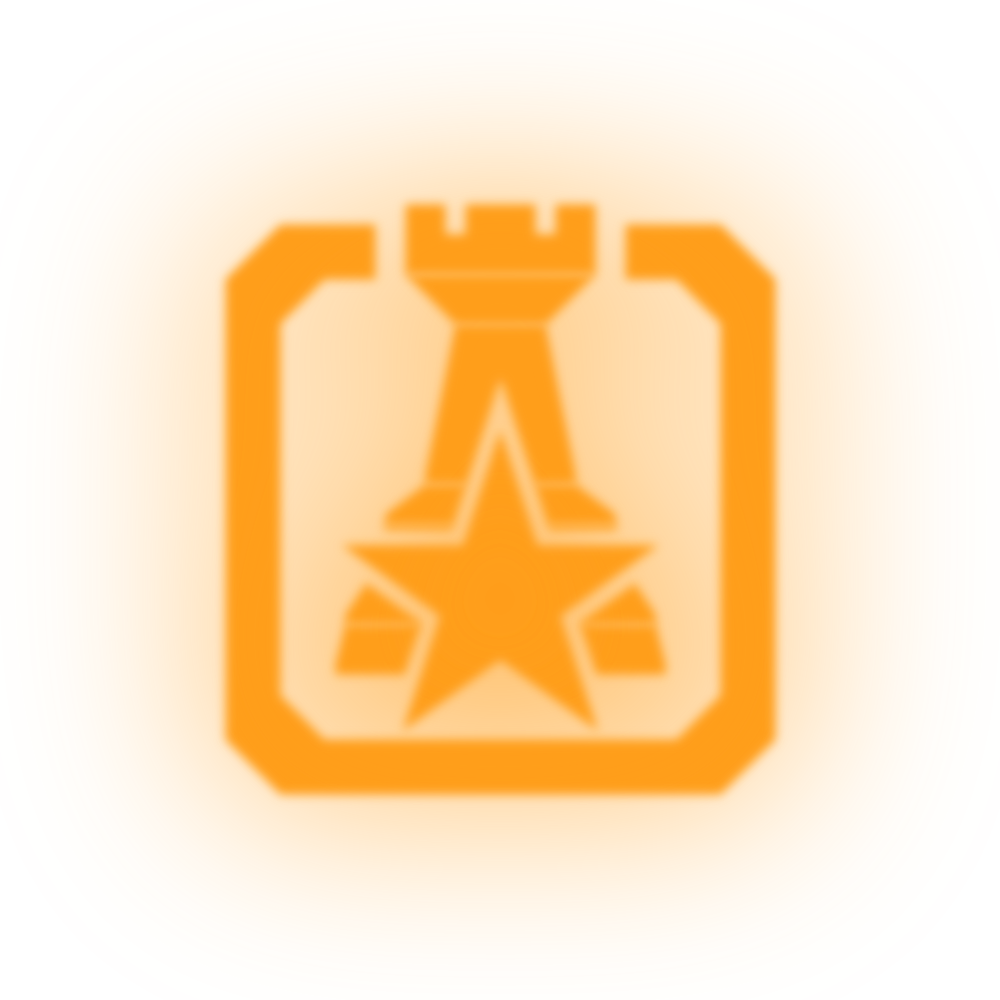
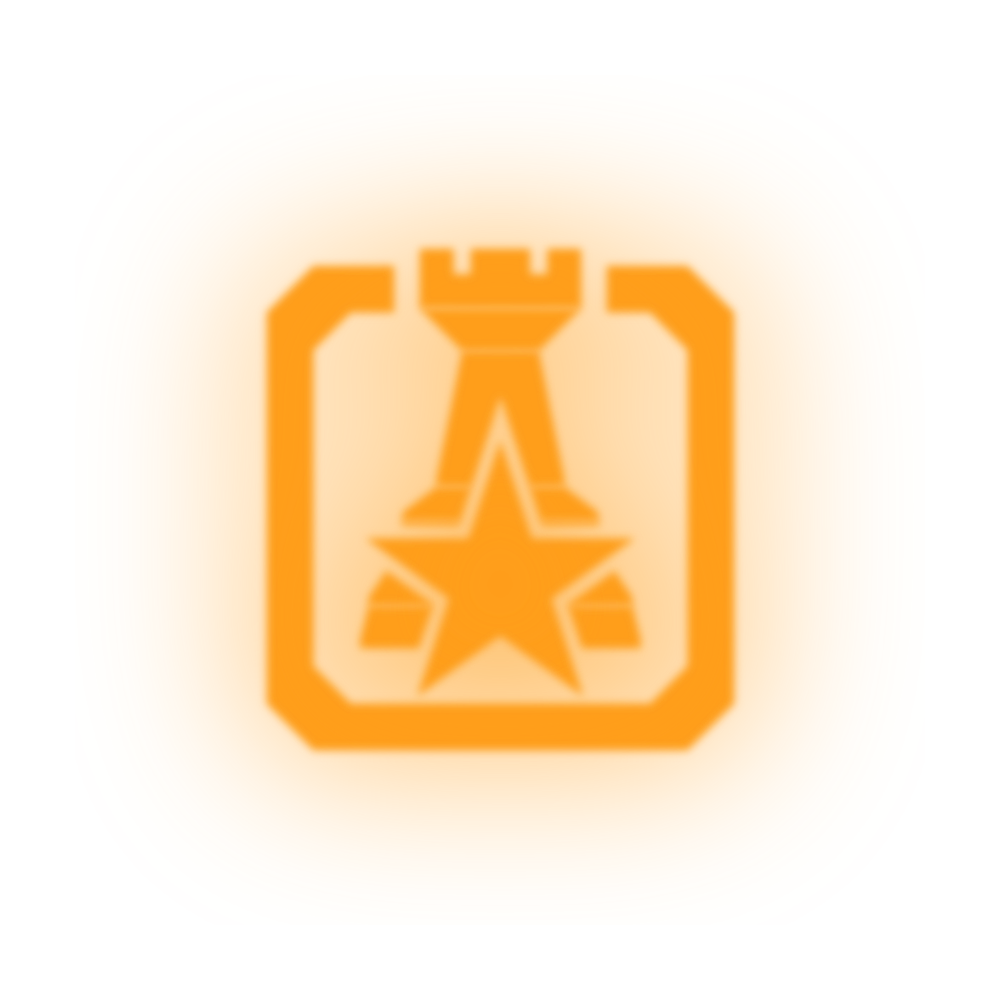
feat: 添加进阶角标

Changed region(s): [[0.186, 0.124, 0.806, 0.868]]

diff --git a/src/components/avatar/AvatarControls.vue b/src/components/avatar/AvatarControls.vue
@@ -14,6 +14,7 @@ import { Refresh } from "@vicons/ionicons5";
 import type { AvatarConfig } from "@/types/avatar";
 
 const showBadge = defineModel<AvatarConfig["showBadge"]>("showBadge", { required: true });
+const badgeStyle = defineModel<AvatarConfig["badgeStyle"]>("badgeStyle", { required: true });
 const badgeSize = defineModel<AvatarConfig["badgeSize"]>("badgeSize", { required: true });
 const offsetX = defineModel<AvatarConfig["offsetX"]>("offsetX", { required: true });
 const offsetY = defineModel<AvatarConfig["offsetY"]>("offsetY", { required: true });
@@ -27,12 +28,25 @@ const emit = defineEmits<{ resetPosition: [] }>();
       <n-collapse-item title="配置菜单" name="1">
         <n-form
           ref="formRef"
-          :model="{ showBadge, badgeSize, offsetX, offsetY, filter }"
+          :model="{ showBadge, badgeStyle, badgeSize, offsetX, offsetY, filter }"
           label-placement="left"
           label-width="auto"
         >
           <n-form-item label="展示角标" path="showBadge">
             <n-switch v-model:value="showBadge" />
+          </n-form-item>
+          <n-form-item label="角标样式" path="badgeStyle">
+            <n-switch
+              v-model:value="badgeStyle"
+              checked-value="advanced"
+              unchecked-value="normal"
+              :disabled="!showBadge"
+              size="large"
+              aria-label="角标样式"
+            >
+              <template #checked>进阶</template>
+              <template #unchecked>普通</template>
+            </n-switch>
           </n-form-item>
           <n-form-item label="角标大小" path="badgeSize">
             <n-slider v-model:value="badgeSize" :step="1" :min="-100" :max="100" />

diff --git a/src/components/avatar/AvatarPreview.vue b/src/components/avatar/AvatarPreview.vue
@@ -1,6 +1,11 @@
 <script setup lang="ts">
 import type { AvatarConfig } from "@/types/avatar";
 
+const badgeImages: Record<AvatarConfig["badgeStyle"], string> = {
+  normal: `${import.meta.env.BASE_URL}av-icon.png`,
+  advanced: `${import.meta.env.BASE_URL}av-icon-m.png`,
+};
+
 defineProps<{
   img?: string;
   config: AvatarConfig;
@@ -13,8 +18,9 @@ defineProps<{
       <img class="absolute bottom-[10%] left-[10%] z-10 block w-[40%]" src="/111.png" alt="" />
       <img class="absolute left-[8%] top-[12.5%] z-10 block w-[40%]" src="/112.png" alt="" />
       <div
-        class="absolute z-10 aspect-square w-[40%] origin-center bg-[url('/av-icon.png')] bg-size-[100%_100%] bg-no-repeat"
+        class="absolute z-10 aspect-square w-[40%] origin-center bg-size-[100%_100%] bg-no-repeat"
         :style="{
+          backgroundImage: `url('${badgeImages[config.badgeStyle]}')`,
           top: `${-6 + config.offsetY}%`,
           right: `${-6 + config.offsetX}%`,
           transform: `scale(${1 + config.badgeSize * 0.01})`,

diff --git a/src/views/AvatarGeneratorView.vue b/src/views/AvatarGeneratorView.vue
@@ -10,6 +10,7 @@
       <image-upload @upload="handleUpload" ref="uploadRef" />
       <avatar-controls
         v-model:show-badge="customForm.showBadge"
+        v-model:badge-style="customForm.badgeStyle"
         v-model:badge-size="customForm.badgeSize"
         v-model:offset-x="customForm.offsetX"
         v-model:offset-y="customForm.offsetY"
@@ -77,6 +78,7 @@ import type { AvatarConfig } from "@/types/avatar";
 
 const customForm = reactive<AvatarConfig>({
   showBadge: true,
+  badgeStyle: "normal",
   offsetX: 0,
   offsetY: 0,
   filter: 50,

diff --git a/src/types/avatar.ts b/src/types/avatar.ts
@@ -1,5 +1,6 @@
 export interface AvatarConfig {
   showBadge: boolean;
+  badgeStyle: "normal" | "advanced";
   offsetX: number;
   offsetY: number;
   filter: number;
